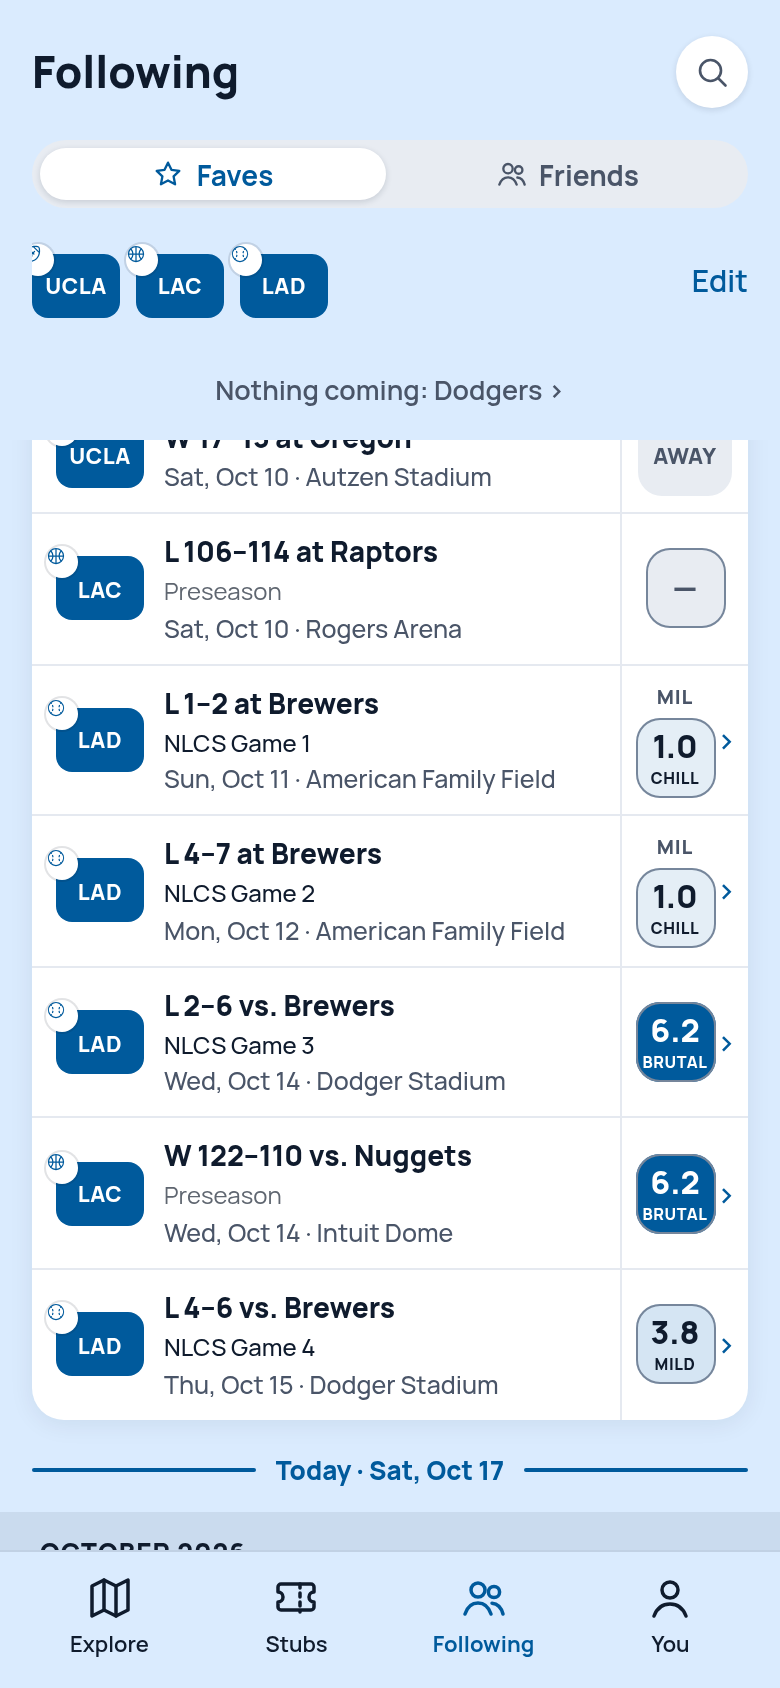
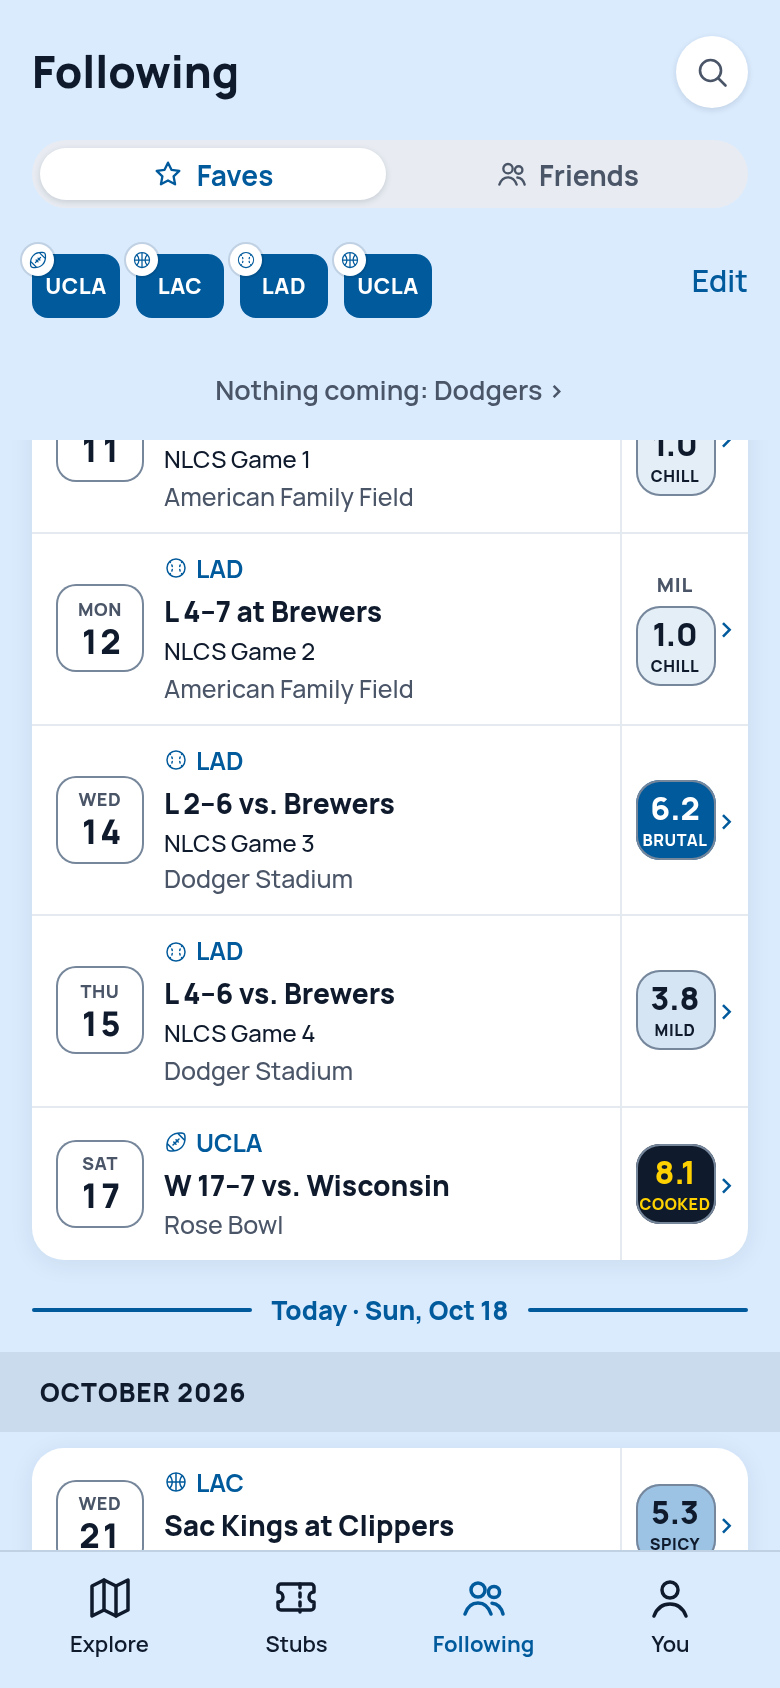
docs: the Faves row decision (P5) logged with its two unconfirmed leans; screens after; handoff and backlog synced

diff --git a/MEMORY_HANDOFF.md b/MEMORY_HANDOFF.md
@@ -2,14 +2,14 @@
 
 Overwritten each session. Deferred work and history live in `BACKLOG.md`: open questions are at its top (the K-list), build follow-ups under **Next** ("Build 6 follow-ups" is newest, then "Past dates", then "Build 5 follow-ups"). Product rules live in `AGENTS.md` (CLAUDE.md points at it), `docs/product/direction.md` and `docs/product/product-decisions.md` (newest sections at the bottom; build 6's decisions are the last section). Build 6's notes are `docs/build-6/build-notes-6.md`; its frozen scope is `docs/build-6/scope-frozen.md`.
 
-_Last synced: Oct 17, 2026 (evening UTC), Claude Code (Fable 5.1), at `main`'s head. **Four commits after `7b3831b5` are local and NOT pushed** (Kylie, Oct 17: "do not automatically fix and push"; push when she says). The tree is clean. Kylie's standing instruction: one commit per step, straight to `main` (Kylie, Oct 9; reaffirmed for build 6)._
+_Last synced: Oct 18, 2026, Claude Code (Fable 5.1), at `main`'s head. **Six commits after `7b3831b5` are local and NOT pushed** (Kylie, Oct 17: "do not automatically fix and push"; push when she says). The tree is clean. Kylie's standing instruction: one commit per step, straight to `main` (Kylie, Oct 9; reaffirmed for build 6)._
 
 ## Current state
 **Build 6 is built, checked and pushed** (items 1–16 of `docs/build-6/build-notes-6.md`, one item per commit, from `75816216` to the head). `npm run build`, `scripts/titles-check.mjs` and `scripts/event-types-check.mjs` pass; every changed list was measured at 390 px with Playwright; every changed screen was smoke-tested for runtime errors. In short:
 - Friction is a violet ghost ring on list rows (after the crowd figure) and one-tint pill with a ring on the event page's Crowd and Up against cards; Stubs rows and Following cards carry no friction mark. The occasion tag shows only on the day's top event(s), right-justified on the venue line. Local Competition bars are gold with a quiet-day line. No "~" except the event page's full number and the map key. The chip card's by-line shows only beside its pill.
 - Stubs and Following's Friends segment are timelines (`src/components/Timeline.tsx`): the tab header stays at the top, the today line opens first (board M2-01 panel C: a thin blue rule with the date centred on it, month bands on both sides), the past is above by scrolling up (Kylie, Oct 17, correcting the first build). Following keeps Faves | Friends; only the edit-favorites picker is in Settings.
 - **The mockup pack is audited (Oct 17, later):** `docs/build-6/mockups/` (30 boards plus MANIFEST) and the Oct 17 notes (Q15, Q16) are on disk; `docs/build-6/audit-vs-mockups.md` records every item against its boards, the fixes (`9ed4b4ff` item 1: ring geometry per M5-04, Unopposed a full disc, per-level spoken sentences, the key's helper tip per M5-08; `caafc5ea` items 6 and 7: the today line, bands both sides, empty-past above, no Earlier, the button's shrink) and the screens after (`docs/build-6/screens-after/`). Items with no board: chip card, Friends timeline, Settings panel, the decided badge, the event header without the pill, the share card. **Her answers, built the same day** (`b7e21048`, `cb4969bd`, `e58add49`): Faves takes month bands with the day on each row; the empty future is M2-02's card; a list with no past opens at its top; the map key fits under the header; the timelines no longer overflow the page's width or squash the chips. Open for Mosaic: the helper tip broken into sections.
-- **Her evening tweaks (local, unpushed):** Faves is the same timeline as Stubs and Friends, 60 days each way, results on past team rows; the crowd-size line toggles Show / Hide in place on the map sheet, the Explore List, the date page and search; the map sheet scrolls to every event; day and event links always carry the city; the badge's sport icon is a white disc astride the tile's top-left corner. **The Faves row is waiting on mockups** from other models (`docs/research/topics/faves-row/faves-row-mockup-prompt.md`); until then the row keeps its badge and written date.
+- **Her evening tweaks (local, unpushed):** Faves is the same timeline as Stubs and Friends, 60 days each way, results on past team rows; the crowd-size line toggles Show / Hide in place on the map sheet, the Explore List, the date page and search; the map sheet scrolls to every event; day and event links always carry the city; the badge's sport icon is a white disc astride the tile's top-left corner. **The Faves row is her option P5 (Oct 18):** date tile, a team line (icon and code, blue, a link to the favorite's page), the title with results written in, venue and time; the badge's corner disc centres its icon. Her sign-off is still wanted on the code being a link and on its 12.5 px size.
 - Settings is a side panel behind the You avatar (`SettingsPanel` in `src/screens/SettingsScreen.tsx`, `?panel=<section>`); the old sub-page and People addresses redirect into it.
 - Team badges are set-aware (`teamBadge(team, shown)`, `badgesCollide`, `FavoriteBadge`): sport icon top-left, college sport letters on a clash, pros plain. 53 team codes changed (Kylie's six plus 47 Medium rows). The duplicate check keys games by team id.
 - Doubleheaders read "Doubleheader Game 1" / "Doubleheader, Game 1" (chip DH1); a `rank` field shows in the event page title only when a source fills it (none does). Run labels: nothing. "The night" story heading is "The evening". Ticket links are off (code and ids kept). B5-02, B5-04, B5-05, B5-07 fixed. Stale docs corrected; `src/lib/chips.ts` and `frictionClass` removed.

diff --git a/docs/product/product-decisions.md b/docs/product/product-decisions.md
@@ -269,3 +269,4 @@ Each entry: the decision, why, and what was rejected. Provenance per line: "Kyli
 - **Build 6 aligned with the mockup pack** (Kylie, Oct 17, 2026, after attaching `docs/build-6/mockups/` and the Oct 17 notes; record in `docs/build-6/audit-vs-mockups.md`). The today line is board M2-01 panel C: a thin blue rule with "Today · Sat, Oct 17" centred on it, not a band; the month bands are grey on both sides of it, so the line's month shows twice; the empty-past card sits above the line and the empty-future note under it; no "Earlier" label; the floating "+ Stub it" opens extended and shrinks only once the list leaves where it opened. The ring follows board M5-04: 12 px on rows and 16 px on the event page, a 4.5 opening with dots of 3.2 / 2.0 / 0.9, Unopposed a full disc (event page only); its stroke is a touch under the board's 1.5 (her M5-06 note). A row's spoken verdict is one sentence per level (M5-04's table: "take a little of", "split", "take most of this crowd"; "rival events or weather" on an open-air event). The map key's helper tip is M5-08 draft A: "Each event is Unopposed, Squeezed, Swamped or Steamrolled by that day's lineup.", the four marks as ring plus word, "A row shows the ring. The event page shows the ring and the word." (wording still a default). Everything else was already as the notes and the decided boards say (items 2, 3, 4, 5, 8 to 16 unchanged).
 - **Her answers to the audit's questions** (Kylie, Oct 17, later). The Faves schedule on Following takes month bands too, each row saying its day first ("Today · Sat, Oct 17 · Rose Bowl · 4:30 pm"). The empty future under the today line is board M2-02's card ("Nothing upcoming yet", "Browse today in Explore ›"), not a one-line note. A list with nothing behind the line opens at its top, so the empty-past card is never out of view. The map key must not hide under the floating header (it now fits between the header and its button and scrolls inside); the helper tip's wording stays for now, and she wants its information broken into sections later (Mosaic). The Stubs and Friends lists must sit within the page's width with the chips above them intact (fixed).
 - **Kylie's Oct 17 tweaks after the correction** (built the same evening; held on `main` unpushed at her word). **Faves goes backwards too:** the Faves sub-tab is the same line of time as Stubs and Friends, reaching 60 days each way (reversing the Oct 16 pick that past Faves games stay out); a team's past rows read its results the team page's way ("W 17–15 at Oregon"), other favorites show their past dates; "Nothing coming: X" still names the favorites with nothing ahead. The Faves row itself is not settled: a date tile should carry the day (the written date leaves the row) and the row needs a way to show which favorite it belongs to; two tries (three tiles; a team line) were not right, so other models are mocking it from `docs/research/topics/faves-row/faves-row-mockup-prompt.md`. **The crowd-size line** ("N events outside your crowd size · Show") stays in place after Show and reads Hide, so the view switches on and off without Settings, on the map sheet, the Explore List (per day), the date page and search; the sheet's count follows what is listed. **The map sheet scrolls** to every event (its day list was shrinking to the sheet's height and clipping the rest). **Day and event links always carry the city** they were opened from (a Los Angeles day had opened as the Bay Area home). **The badge's sport icon** is a small white disc astride the tile's top-left corner, the icon in the tile's blue, as the badge board draws it, not a glyph painted over the tile.
+- **The Faves row is option P5, "team line above the title" (Kylie, Oct 18, 2026, from the mockups other models drew to `docs/research/topics/faves-row/`).** Past and future rows are one component: a 44 × 44 date tile at the left; a text block of three lines, the team line (the sport icon and the code the badge strip uses, in action blue, 12.5 px bold; "UCLA MBB" only where programs collide, no W), the title (bold ink, one line, a past game writing its result in: "W 17–15 at Oregon"), and the venue and time in grey (a past row has no time); the read tile at the right, about 60 px, opening the date page, or a grey Away tag where the app does not cover the building. No badge on the row, no friction mark, no occasion tag; the person's own Attending stays on Stubs. Measured at 390 px: the title keeps 220 px and no sample title truncates; rows are 76 px, 96 px when a label line ("NLCS Game 2") sits under the title, which the labels rule puts on its own line. **Leans built, not confirmed by Kylie:** the team code is a link to the favorite's page (the same place the strip's badge opens), which is why it is blue; the 12.5 px code sits under the 11 pt minimum (the Friends row's last line already does) and needs her sign-off. **Why:** the row always says which Fave it belongs to without a third tile, at the cost of about 18 px per row. **Rejected:** three tiles (date, badge, read: busy, titles truncate at 164 px); a team line under the venue (try B); the written date on the row (the date tile carries it).

diff --git a/BACKLOG.md b/BACKLOG.md
@@ -76,7 +76,7 @@ Items 1–16 are built and on `main`; the report is `docs/build-6/build-6-report
 - ~~Open question: how clashing same-sport pro pairs are told apart~~ **Closed (Kylie, Oct 17): option A.** A pro badge whose code and sport another pro badge in the set shares carries its league as a caption under the tile (`leagueMark`, `FavoriteBadge`). Team colors stay a possible branding project (no color data exists; about 200 teams would need a hand-sourced hex; ESPN's values are unlicensed for reuse so far).
 - ~~To confirm: letters only on a clash~~ **Confirmed (Kylie, Oct 17):** college sport letters only on a clash, same code and same sport. The wider college badge ("UCLA MBB", about 74–79 px) lets the tile grow; Mosaic's width call is still welcome.
 - **Leans and defaults she may change (one place each):** the Why card and Favorite page rows (Q14); ~~the Faves strip and day rows living in the Settings panel (Q12)~~ reverted Oct 17 (Kylie: the Faves segment stays on the tab; only the edit picker is in Settings); the Time TBA band alone (Q13); "The evening" (Q11); the Stubs empty copy rendered as "No stubbed events" (the notes write it lowercase); ~~the today band's look~~ aligned Oct 17 with board M2-01 panel C (a thin blue rule; `docs/build-6/audit-vs-mockups.md`); the empty-future side as a one-line note (board M2-02 draws a card with "Browse today in Explore ›"); the stub's level shown on every row only when signed in; the Settings dropdown order; the Following row's last line (the people on it, else a star and the Fave); Following's 60-day window (the past, and the Faves horizon; followed people's plans ahead are not capped); the map key's helper tip in board M5-08's draft A shape (three lines; draft C is shorter); the ring's stroke (1.3 at 12 px, a touch under M5-04's 1.5 per her M5-06 note).
-- **The Faves row (Kylie, Oct 17): waiting on mockups.** The prompt and the two tries are in `docs/research/topics/faves-row/`; until a board is chosen the row keeps its badge and its written date ("Today · Sat, Oct 17 · Rose Bowl · 4:30 pm", which wraps to two lines on long venues). Also from her: the helper tip's information broken into sections (Mosaic).
+- ~~The Faves row: waiting on mockups~~ **Built Oct 18 as Kylie's option P5** (team line above the title; `docs/research/topics/faves-row/` holds the prompt and the tries). **Her sign-off still wanted on two leans:** the team code as a link to the favorite's page (blue because it taps), and the 12.5 px code under the 11 pt minimum. Also from her: the helper tip's information broken into sections (Mosaic).
 - **After the mockup audit (Oct 17):** ~~Faves month bands~~ built (Kylie: yes). **For Mosaic:** the map key's helper tip (Kylie, Oct 17: "lots of information, might want to break down in sections"; it keeps M5-08 draft A's words until a board says otherwise); boards still wanted for the chip card, the Friends timeline, the Settings panel, the decided badge (and the lettered tile's width), the event header without the pill, and the share card.
 - ~~Duplicate program records~~ **Merged Oct 17 (Kylie: "go ahead"):** `rice` into `rice-football`, `washington-huskies` into `uw-football`; their old names are aliases; the two seeded games point at the programs. The expected-draw index keys visitors by listing slug ("rice"), which the merge does not touch.
 - **The 22 Low team codes** stay held until each is checked on a league or ESPN page (PWHL Detroit and Las Vegas, KC Mavericks, Indy Fuel, Winterhawks, Generals, 67s, Olympiques, Missions, the two Diablos, PVAMU, IU Indy, Columbia, Penn State, the Varsity Blues, York).
